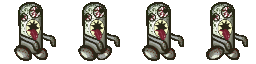
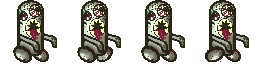
updated enemy images and fixed scaling. Also changed hitboxes for future tasks pt2

diff --git a/source/core/src/main/com/deco2800/game/entities/factories/NPCFactory.java b/source/core/src/main/com/deco2800/game/entities/factories/NPCFactory.java
@@ -66,7 +66,7 @@ public class NPCFactory {
             .addComponent(new CombatStatsComponent(config.health, config.baseAttack));
 
     smallEnemy.getComponent(AnimationRenderComponent.class).scaleEntity();
-
+    smallEnemy.setScale(0.75f, 0.75f);
     return smallEnemy;
   }
 
@@ -96,7 +96,7 @@ public class NPCFactory {
             .addComponent(new GhostAnimationController());
 
     //Increase the size of the enemy
-    largeEnemy.setScale(2,2);
+    largeEnemy.setScale(2f,2f);
 
     return largeEnemy;
   }
@@ -123,7 +123,7 @@ public class NPCFactory {
                     .addComponent(new CombatStatsComponent(1, 1))
                     .addComponent(aiComponent)
                     .addComponent(new FireBulletListener(target, gameArea));
-    longRange.setScale(new Vector2(1.5f, 1.5f));
+    longRange.setScale(new Vector2(1f, 1f));
     return longRange;
   }
 
@@ -147,7 +147,7 @@ public class NPCFactory {
             .addComponent(new TouchAttackComponent(PhysicsLayer.PLAYER, 1.5f))
             .addComponent(aiComponent);
 
-    PhysicsUtils.setScaledCollider(npc, 0.9f, 0.4f);
+    //PhysicsUtils.setScaledCollider(npc, 0.9f, 0.4f);
     return npc;
   }
 
